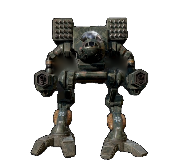
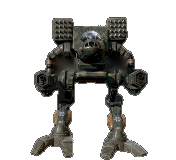
fix(character): Clear Timber Wolf floor-plate residue between feet
Front-facing frames were keeping a brown Sketchfab ground fill under
the chassis. Punch it out while keeping the hip bridge and the floor
rule, and trim the #161 test comments so they state the constraint
instead of retelling the review.

diff --git a/crates/core/tests/character_packages.rs b/crates/core/tests/character_packages.rs
@@ -33,12 +33,12 @@ fn package_bytes(name: &str) -> BTreeMap<String, Vec<u8>> {
     files
 }
 
-/// Load a Character Package from a directory in the workspace root.
+/// Load a workspace Character Package, or panic with the loader's errors.
 fn load_package(name: &str) -> Result<character::Character, Vec<String>> {
     character::load(&package_bytes(name))
 }
 
-/// Recursively read a directory into a `PackageBytes` map.
+/// Walk a package directory into the path→bytes map `character::load` takes.
 fn collect(root: &Path, dir: &Path, files: &mut BTreeMap<String, Vec<u8>>) -> std::io::Result<()> {
     for entry in std::fs::read_dir(dir)? {
         let path = entry?.path();
@@ -217,10 +217,8 @@ fn frames_of(name: &str) -> Vec<(String, String, Vec<u8>)> {
     frames
 }
 
-/// #161 review: "the mech needs to be placed on the frame's floor so it won't
-/// float. at least 1 leg on the floor at all times (since it's not running)."
-/// The canvas bottom row is that floor, so every grounded pose has a foot on
-/// it. Only `fall` is airborne.
+/// #161: every grounded pose has a foot on the canvas bottom row.
+/// Only `fall` is airborne.
 #[test]
 fn timber_wolf_stands_on_the_canvas_floor() {
     for (animation, frame, bytes) in frames_of("timber-wolf") {
@@ -248,9 +246,8 @@ fn timber_wolf_stands_on_the_canvas_floor() {
     }
 }
 
-/// #161 review: "The mech is too big, needs scaling down." One canvas for the
-/// whole package, and a silhouette that reads as a heavy mech beside Jotaro's
-/// 110px without dwarfing the desktop.
+/// #161: one canvas for the package, silhouette heavy beside Jotaro's 110px
+/// without dwarfing the desktop.
 #[test]
 fn timber_wolf_frames_share_one_canvas_at_a_desktop_scale() {
     let frames = frames_of("timber-wolf");
@@ -281,9 +278,8 @@ fn timber_wolf_frames_share_one_canvas_at_a_desktop_scale() {
     );
 }
 
-/// #161 review: idle, land, sit, sleep and hold all shipped as copies of one
-/// side-profile pose, and "the mech never sleeps - so we can just use idle +
-/// torso twists". Each of those poses, plus react and talk, is its own art.
+/// #161: idle, land, sit, sleep, hold, react and talk must each be their own
+/// art — not copies of one shared stand.
 #[test]
 fn timber_wolf_poses_are_not_copies_of_each_other() {
     let posed = ["idle", "land", "sit", "sleep", "hold", "react", "talk"];
@@ -306,8 +302,7 @@ fn timber_wolf_poses_are_not_copies_of_each_other() {
     }
 }
 
-/// #161 review: "Missing reactions". A patrol mech tracks a contact rather
-/// than closing on it, and a rush at the chassis earns a weapon raise.
+/// #161: a patrol mech tracks a near contact and raises a weapon on a rush.
 #[test]
 fn timber_wolf_declares_cursor_reactions() {
     let character = load_package("timber-wolf").expect("Timber Wolf package is valid");
